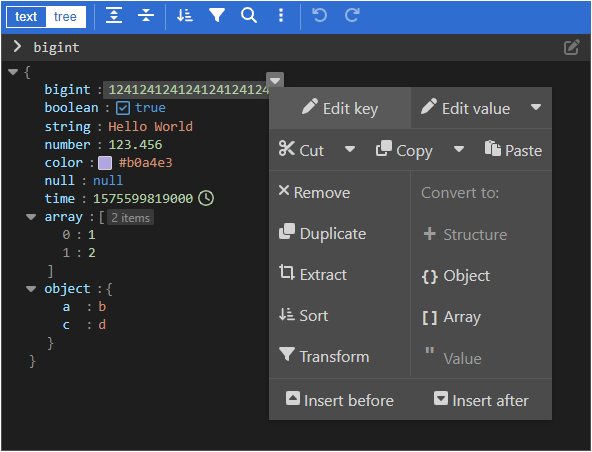
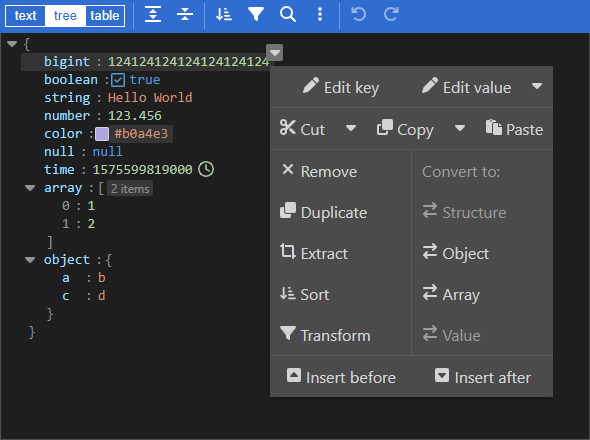
feat: support table mode

diff --git a/src/Component.ts b/src/Component.ts
@@ -16,7 +16,7 @@ import { debounce } from 'lodash-es'
 import { pascalCasedName as name } from '../package.json'
 import { globalAttrs, globalProps } from './install'
 
-export type Mode = 'tree' | 'text'
+export type Mode = 'tree' | 'text' | 'table'
 
 const modelValueProp = isVue3 ? 'modelValue' : 'value'
 const updateModelValue = isVue3 ? 'update:modelValue' : 'input'

diff --git a/README.md b/README.md
@@ -22,7 +22,7 @@ English | [简体中文](./docs/README.zh-CN.md)
   <a href="https://github.com/cloydlau/json-editor-vue#develop"><img alt="PRs Welcome" src="https://img.shields.io/badge/PRs-welcome-brightgreen.svg"></a>
 </p>
 
-<img width="49.738%" src="./docs/light-theme.png" alt="light-theme">&nbsp;<img width="49.738%" src="./docs/dark-theme.png" alt="dark-theme">
+<img width="49.738%" src="./docs/dark-theme.png" alt="dark theme">&nbsp;<img width="49.738%" src="https://raw.githubusercontent.com/josdejong/svelte-jsoneditor/main/misc/jsoneditor_table_mode_screenshot.png" alt="table mode">
 
 <br>
 
@@ -707,7 +707,7 @@ Including the boolean properties of `svelte-jsoneditor` like `readOnly` with no 
 <a name="Mode"></a>
 
 ```ts
-type Mode = 'tree' | 'text'
+type Mode = 'tree' | 'text' | 'table'
 ```
 
 <br>

diff --git a/docs/README.zh-CN.md b/docs/README.zh-CN.md
@@ -20,7 +20,7 @@
   <a href="https://github.com/cloydlau/json-editor-vue#develop"><img alt="PRs Welcome" src="https://img.shields.io/badge/PRs-welcome-brightgreen.svg"></a>
 </p>
 
-<img width="49.738%" src="./light-theme.png" alt="light-theme">&nbsp;<img width="49.738%" src="./dark-theme.png" alt="dark-theme">
+<img width="49.738%" src="./dark-theme.png" alt="dark theme">&nbsp;<img width="49.738%" src="https://raw.githubusercontent.com/josdejong/svelte-jsoneditor/main/misc/jsoneditor_table_mode_screenshot.png" alt="table mode">
 
 <br>
 
@@ -703,7 +703,7 @@ export default {
 ## 类型
 
 ```ts
-type Mode = 'tree' | 'text'
+type Mode = 'tree' | 'text' | 'table'
 ```
 
 <br>
